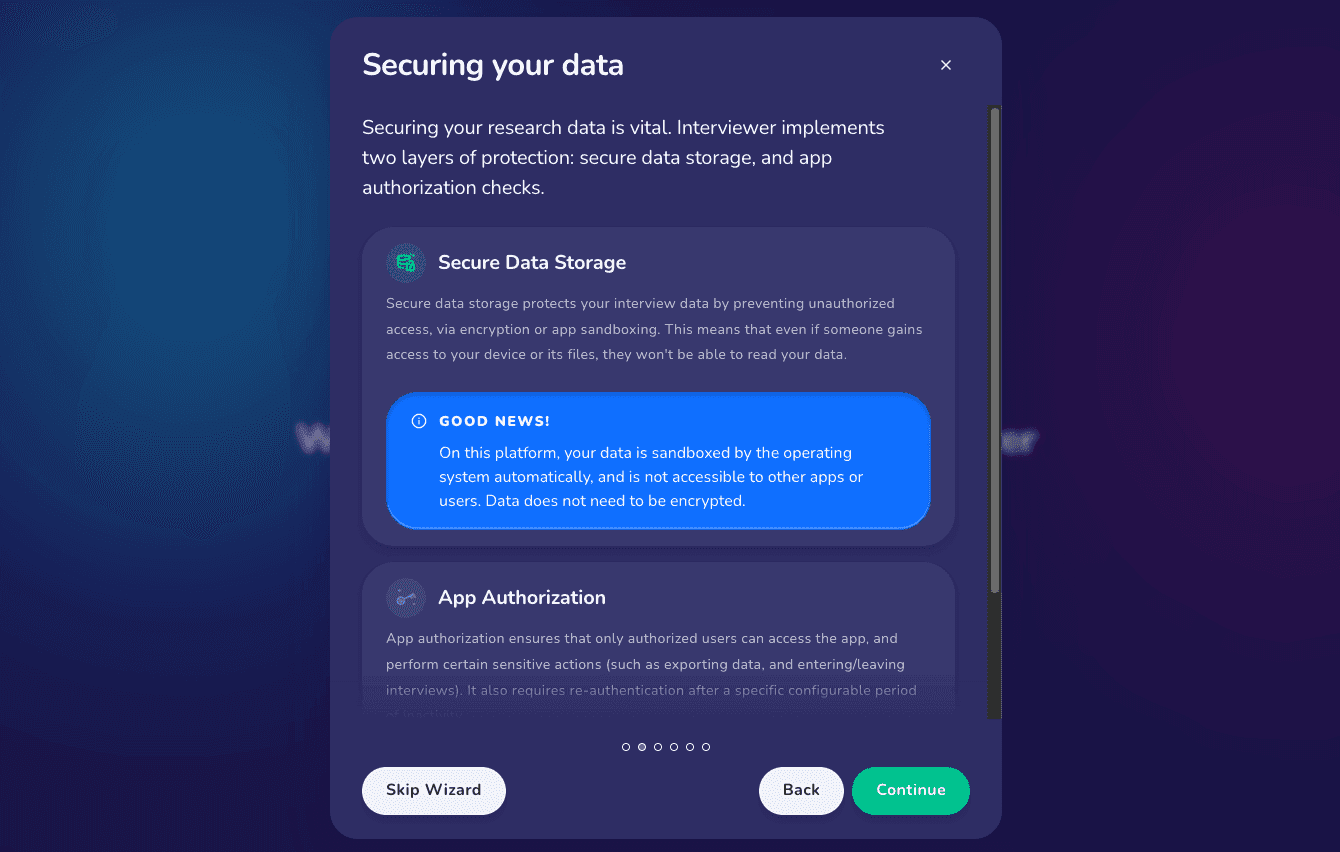
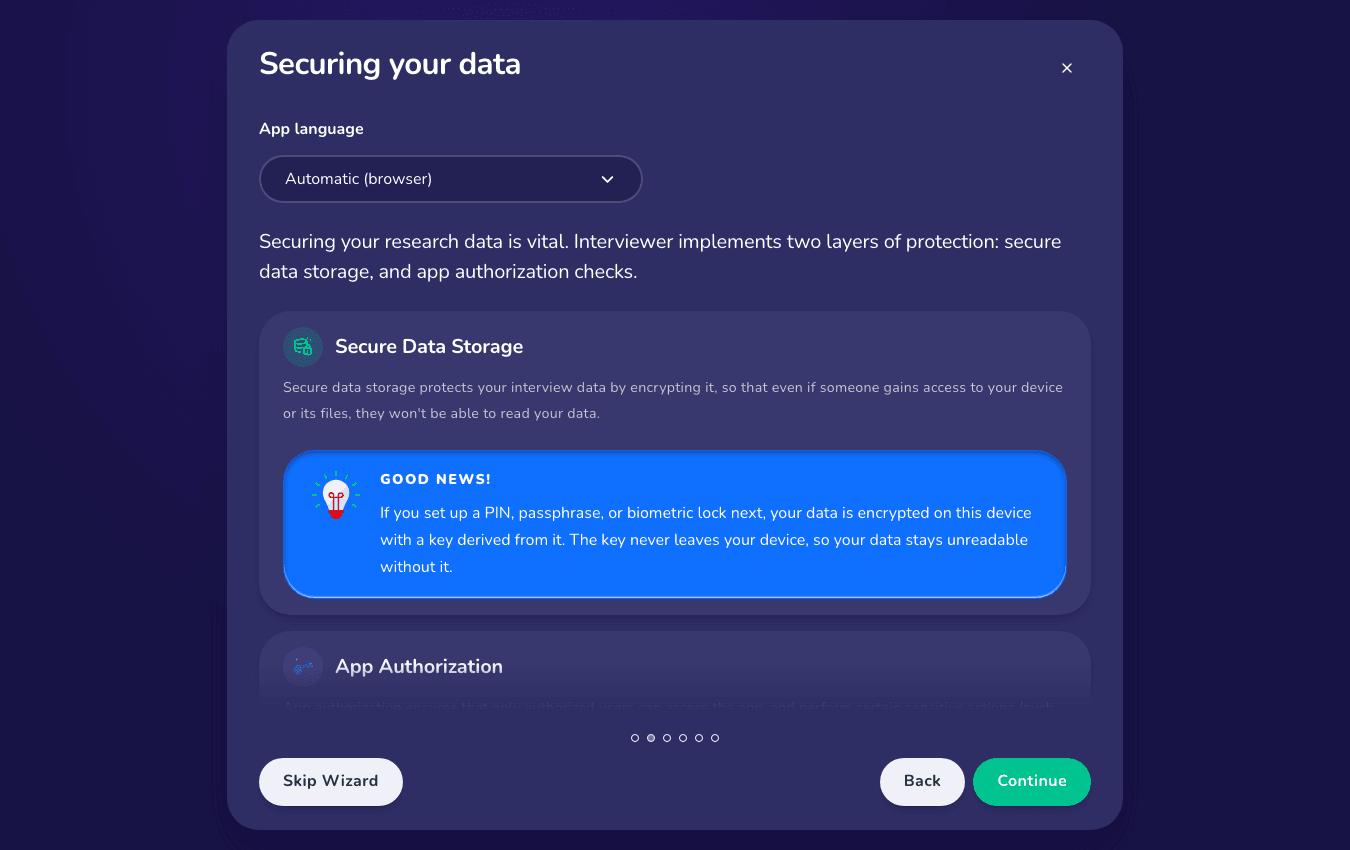
docs: recapture the Interviewer screenshots from the 8.3.0 build
The home screen's globe language button, the App language select on the
welcome screen and on every setup-wizard step, and the Settings screen,
which now lists all seven sections including Language and Interview.

Adds interviewer-guide/interview-settings.png, a capture of the
in-interview settings menu (Interface language, Text size, Exit
interview). Using Interviewer described that menu but showed no image of
it, so the new capture is placed there.

diff --git a/apps/documentation/SCREENSHOTS_TO_REGENERATE.md b/apps/documentation/SCREENSHOTS_TO_REGENERATE.md
@@ -8,19 +8,20 @@ Image paths are relative to `apps/documentation/public`.
 Rows marked 🔄 in the tables below changed with these releases. Capture them from
 the released builds.
 
-The Architect images are done: every one was recaptured from the 8.3.0 build
-(the `changeset-release/main` tree, which carries the release's version number),
-driving the bundled Sample Protocol template. The rows below, and the 🔄 rows
-that remain in the tables, are Interviewer and Fresco.
+The Architect and Interviewer images are done: every one was recaptured from
+the 8.3.0 builds (the `changeset-release/main` tree, which carries the
+release's version numbers), driving the bundled Sample Protocol. Interviewer
+also gained `interviewer-guide/interview-settings.png`, a new capture of the
+in-interview settings menu, now shown in Using Interviewer. The rows below, and
+the 🔄 rows that remain in the tables, are Fresco.
 
 These affected images are not tracked in any table below:
 
-| Image (`/assets/img/…`)                                              | What changed                                         |
-| -------------------------------------------------------------------- | ---------------------------------------------------- |
-| `interviewer-guide/` — new capture of the in-interview settings menu | Interface language chooser (not shown anywhere yet)  |
-| `fresco-images/user-management.png`                                  | "Require Two-Factor Authentication" row, badge chips |
-| `fresco-images/configure-storage-s3.png`                             | Globe button in the setup header                     |
-| `fresco-images/interviews-filtering.png`, `activity-feed.png`        | Check: top bar and badge chips may have changed      |
+| Image (`/assets/img/…`)                                       | What changed                                         |
+| ------------------------------------------------------------- | ---------------------------------------------------- |
+| `fresco-images/user-management.png`                           | "Require Two-Factor Authentication" row, badge chips |
+| `fresco-images/configure-storage-s3.png`                      | Globe button in the setup header                     |
+| `fresco-images/interviews-filtering.png`, `activity-feed.png` | Check: top bar and badge chips may have changed      |
 
 ## Using Interviewer (Interviewer screenshots)
 
@@ -41,25 +42,25 @@ directly at `/assets/img/interviewer-guide/`.
 
 **Dashboard / setup / shell:**
 
-| Image (`/assets/img/interviewer-guide/…`) | Screen                                                 | Status                                          |
-| ----------------------------------------- | ------------------------------------------------------ | ----------------------------------------------- |
-| `start-screen.png`                        | Dashboard (deck + Protocols / Data toggle)             | 🔄 Recapture — globe language button in top bar |
-| `protocol-card.png`                       | Protocol card (anatomy + Start new interview button)   | ✅ Captured                                     |
-| `case-id.png`                             | Case ID entry dialog                                   | ✅ Captured                                     |
-| `import-protocol.png`                     | Import a protocol dialog (file + URL) — 8 only         | ✅ Captured                                     |
-| `delete-protocol.png`                     | Delete-protocol confirmation — 8 only                  | ✅ Captured                                     |
-| `welcome.png`                             | First-run welcome screen — 8 only                      | 🔄 Recapture — App language select              |
-| `setup-intro.png`                         | Setup wizard introduction — 8 only                     | 🔄 Recapture — App language select              |
-| `securing-data.png`                       | Wizard "Securing your data" step — 8 only              | 🔄 Recapture — App language select              |
-| `auth-method.png`                         | Wizard "Choose an authentication method" — 8 only      | 🔄 Recapture — App language select              |
-| `analytics.png`                           | Wizard analytics-preference step — 8 only              | 🔄 Recapture — App language select              |
-| `settings.png`                            | Settings screen — 8 only                               | 🔄 Recapture — Language and Interview sections  |
-| `interviewer-ui.png`                      | In-interview navigation (rail / bar: up / down / exit) | ✅ Captured                                     |
-| `finish.png`                              | Finish screen                                          | ✅ Captured                                     |
-| `finish-confirm.png`                      | Finish confirmation dialog — 8 only                    | ✅ Captured                                     |
-| `interview-complete.png`                  | Interview-complete screen — 8 only                     | ✅ Captured                                     |
-| `resume-section.png`                      | The Data page (status, progress, multi-select)         | ✅ Captured                                     |
-| `lock-screen.png`                         | The lock screen — 8 only                               | ✅ Captured                                     |
+| Image (`/assets/img/interviewer-guide/…`) | Screen                                                 | Status                  |
+| ----------------------------------------- | ------------------------------------------------------ | ----------------------- |
+| `start-screen.png`                        | Dashboard (deck + Protocols / Data toggle)             | ✅ Recaptured for 8.3.0 |
+| `protocol-card.png`                       | Protocol card (anatomy + Start new interview button)   | ✅ Captured             |
+| `case-id.png`                             | Case ID entry dialog                                   | ✅ Captured             |
+| `import-protocol.png`                     | Import a protocol dialog (file + URL) — 8 only         | ✅ Captured             |
+| `delete-protocol.png`                     | Delete-protocol confirmation — 8 only                  | ✅ Captured             |
+| `welcome.png`                             | First-run welcome screen — 8 only                      | ✅ Recaptured for 8.3.0 |
+| `setup-intro.png`                         | Setup wizard introduction — 8 only                     | ✅ Recaptured for 8.3.0 |
+| `securing-data.png`                       | Wizard "Securing your data" step — 8 only              | ✅ Recaptured for 8.3.0 |
+| `auth-method.png`                         | Wizard "Choose an authentication method" — 8 only      | ✅ Recaptured for 8.3.0 |
+| `analytics.png`                           | Wizard analytics-preference step — 8 only              | ✅ Recaptured for 8.3.0 |
+| `settings.png`                            | Settings screen — 8 only                               | ✅ Recaptured for 8.3.0 |
+| `interviewer-ui.png`                      | In-interview navigation (rail / bar: up / down / exit) | ✅ Captured             |
+| `finish.png`                              | Finish screen                                          | ✅ Captured             |
+| `finish-confirm.png`                      | Finish confirmation dialog — 8 only                    | ✅ Captured             |
+| `interview-complete.png`                  | Interview-complete screen — 8 only                     | ✅ Captured             |
+| `resume-section.png`                      | The Data page (status, progress, multi-select)         | ✅ Captured             |
+| `lock-screen.png`                         | The lock screen — 8 only                               | ✅ Captured             |
 
 **Interview interface stages** (version-swapped — each matches a 6.x shot of the same name in `sample-protocol/`):
 
